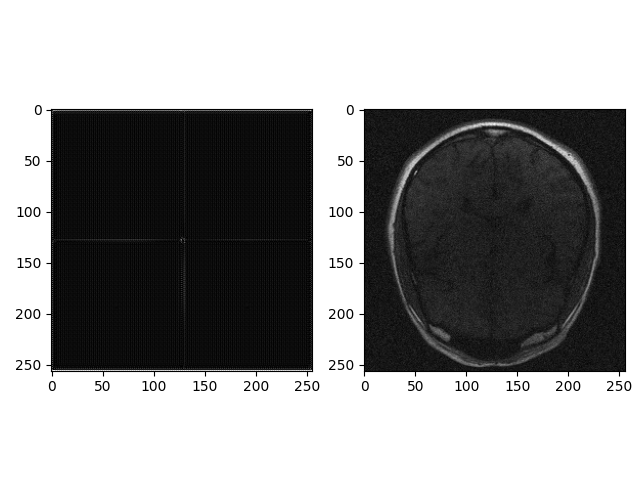
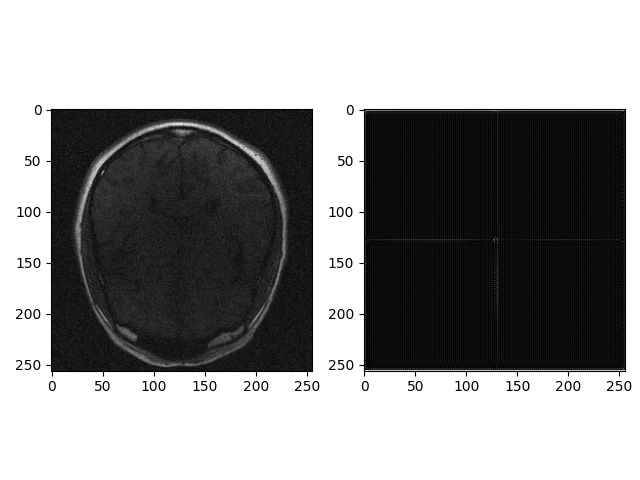
flip plot order

diff --git a/dual-domain-denoising/inference.py b/dual-domain-denoising/inference.py
@@ -86,7 +86,7 @@ def main():
             # save plot
             folder_path = os.path.join(OUTPUT_FOLDER, Path(file).stem)
             os.makedirs(folder_path, exist_ok=True)
-            plot_noisy_vs_clean(clean_image_rss, noisy_image_rss, path=os.path.join(folder_path, f's{n_slice}.png'))
+            plot_noisy_vs_clean(noisy_image_rss, clean_image_rss, path=os.path.join(folder_path, f's{n_slice}.png'))
 
     
     print('Done.')
